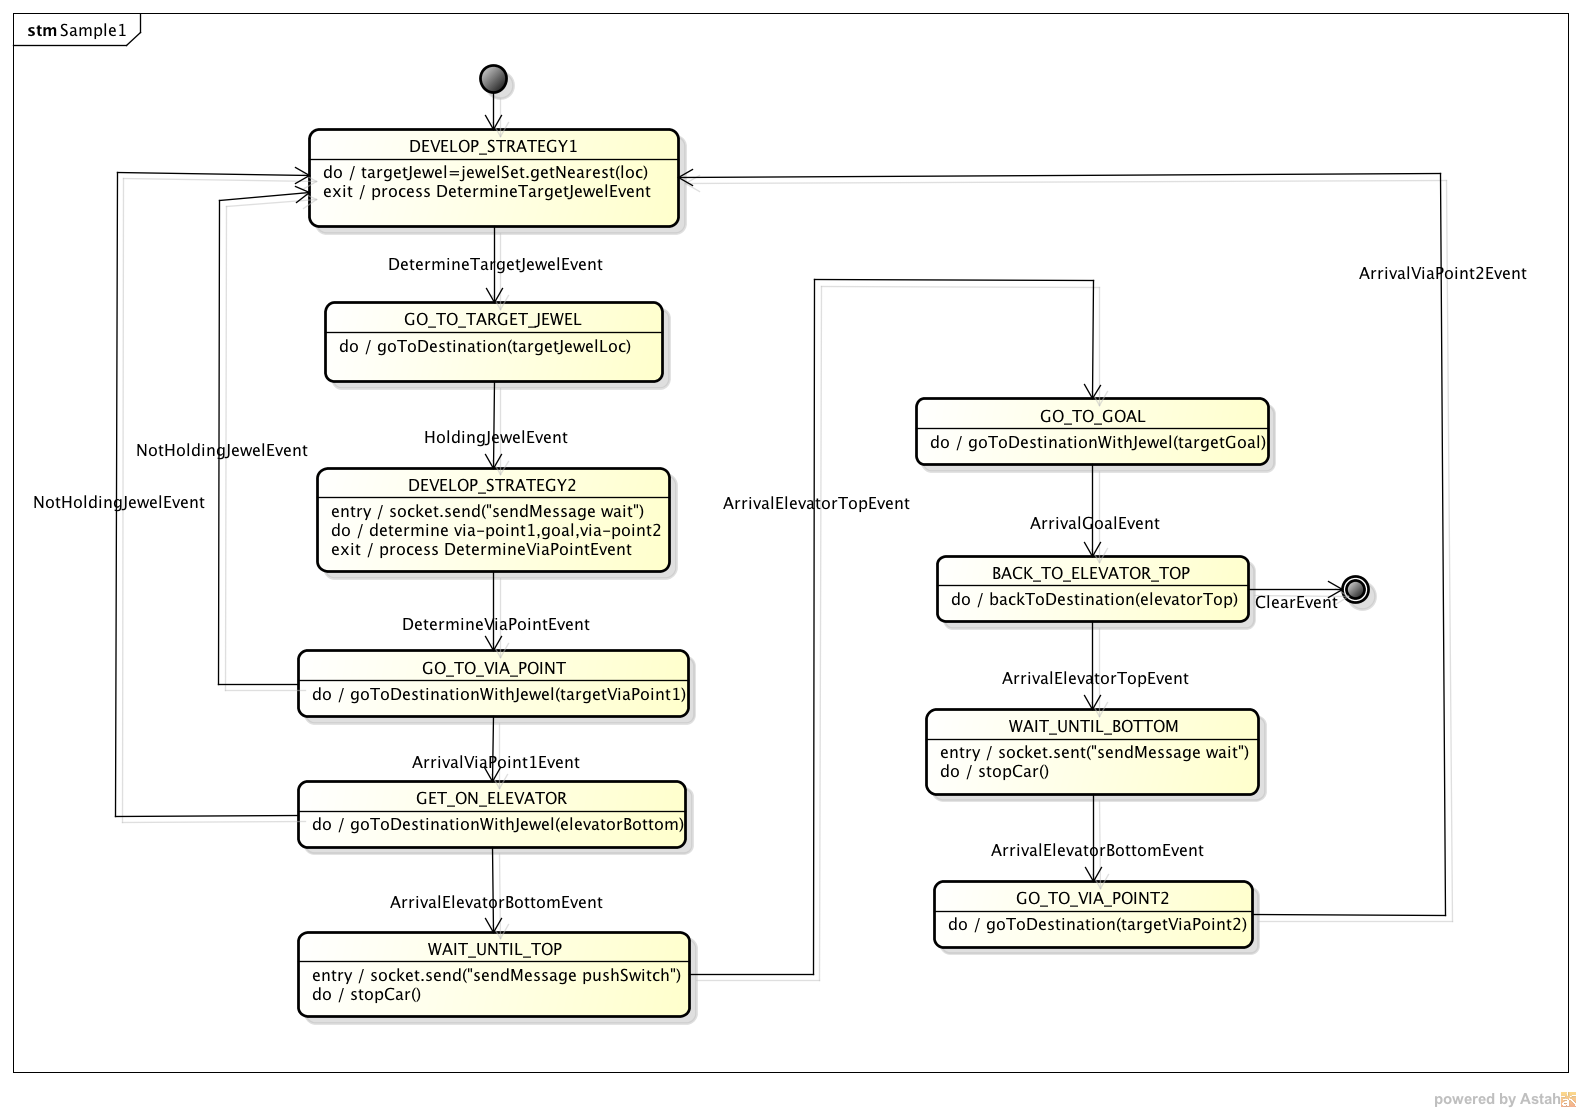
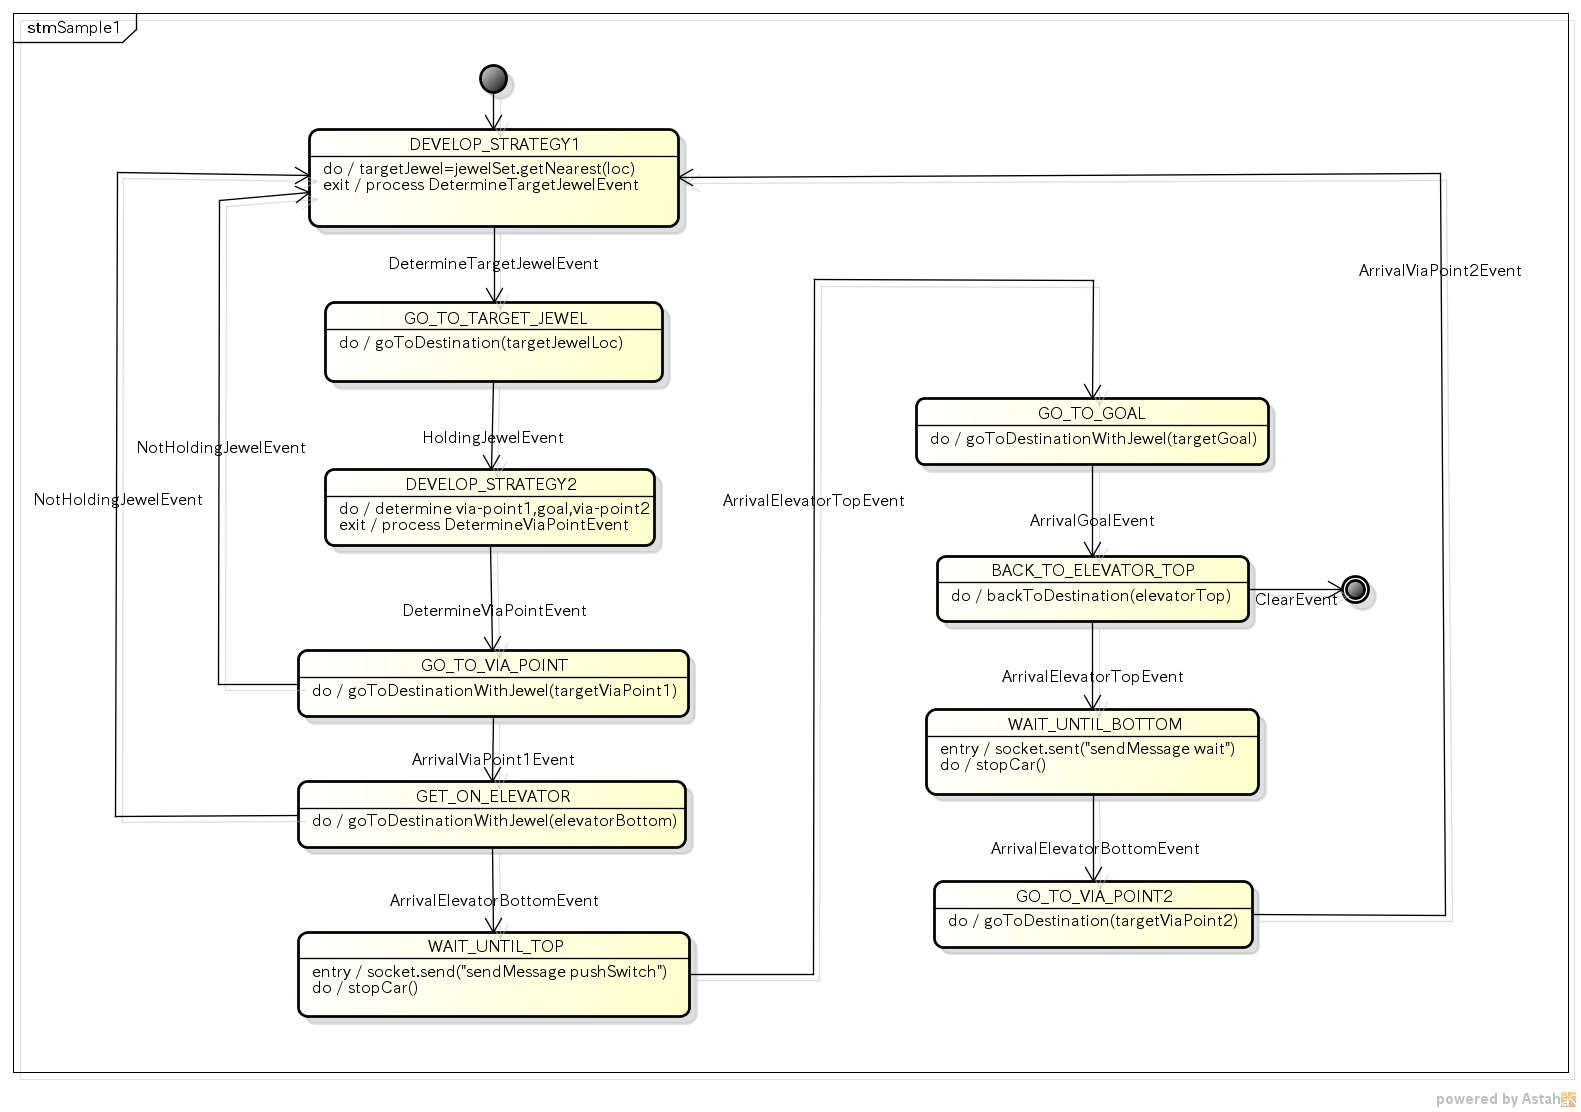
Small Fix.

diff --git a/samples/C++/SampleBase.h b/samples/C++/SampleBase.h
@@ -63,13 +63,13 @@ static const Vec3d elevatorBottom(0,0,62.5);
 // Location of the elevator top
 static const Vec3d elevatorTop(0,15.0,62.5);
 // Location of the switch1
-static const Vec3d switch1(0,0.5,-11+62.5);
+static const Vec3d switch1(0,0.0,-11+62.5);
 // Location of the switch2
-static const Vec3d switch2(0,0.5,11+62.5);
+static const Vec3d switch2(0,0.0,11+62.5);
 // Location of the goal1
-static const Vec3d goal1(-10,15.5,62.5);
+static const Vec3d goal1(-10,15.0,62.5);
 // Location of the goal2
-static const Vec3d goal2( 10,15.5,62.5);
+static const Vec3d goal2( 10,15.0,62.5);
 
 /*
  *   SampleBase is a super class of Sample1 and Sample2.

diff --git a/samples/Java/Sample1.java b/samples/Java/Sample1.java
@@ -143,8 +143,6 @@ public class Sample1 extends SampleBase {
         } else if ((mode==S1Mode.GO_TO_TARGET_JEWEL)
                  &&(e instanceof HoldingJewelEvent)) {
             mode = S1Mode.DEVELOP_STRATEGY2;
-            s = socket.send("sendMessage wait");
-System.out.println("Sample1:sendMessage(wait):"+s);
         } else if ((mode==S1Mode.DEVELOP_STRATEGY2)
                  &&(e instanceof StrategyDevelopedEvent)) {
             mode = S1Mode.GO_TO_VIA_POINT;

diff --git a/samples/C++/Sample1.cpp b/samples/C++/Sample1.cpp
@@ -167,8 +167,6 @@ void Sample1::processEvent(Event *e) {
     } else if ((mode==GO_TO_TARGET_JEWEL)
       &&(dynamic_cast<HoldingJewelEvent*>(e))) {
         mode = DEVELOP_STRATEGY2;
-        s = socket->send("sendMessage wait");
-cout << "Sample1:sendMessage(wait):" << s << endl;
     } else if ((mode==DEVELOP_STRATEGY2)
       &&(dynamic_cast<StrategyDevelopedEvent*>(e))) {
         mode = GO_TO_VIA_POINT;
